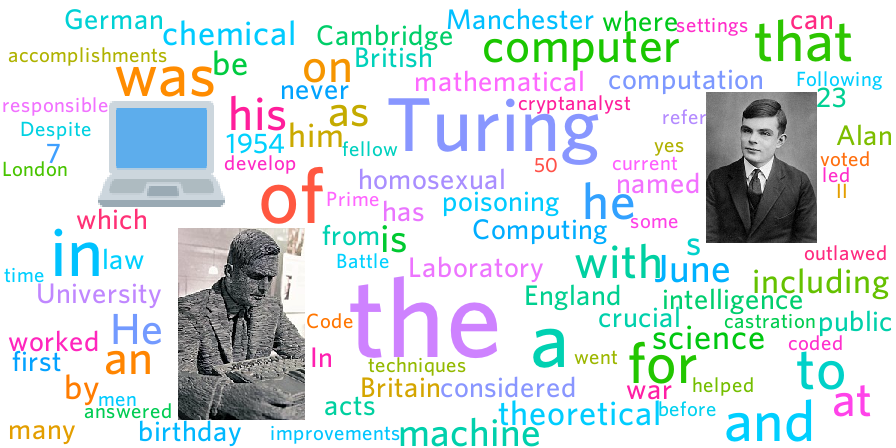
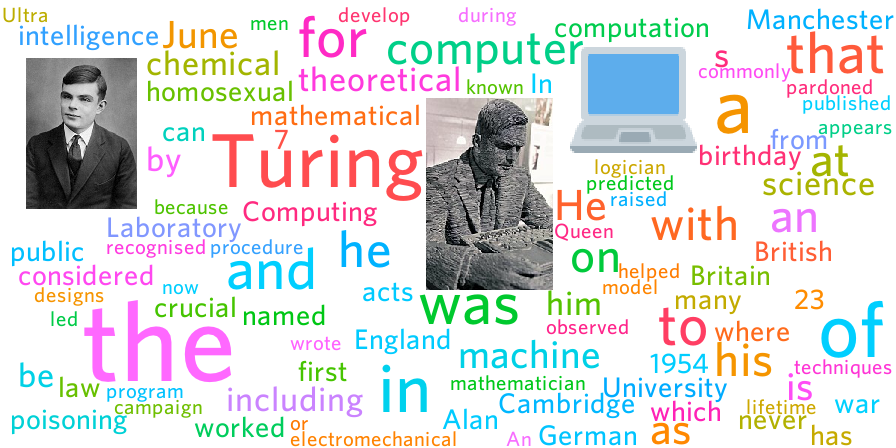
made the wordcloud gen several times faster by simply sampling less positions (doesn't seem to worsen the results) + added a benchmark

diff --git a/benches/wordcloud.rs b/benches/wordcloud.rs
@@ -1,14 +1,9 @@
-# wordcloud-rs
-A Rust library to generate word-clouds from text and images!
+use std::{collections::HashMap, fs};
 
-## Example 
-### Code
-```rust
-use std::collections::HashMap;
-use std::fs;
+use criterion::{black_box, criterion_group, criterion_main, Criterion};
+use wordcloud_rs::{Token, WordCloud};
 use lazy_static::lazy_static;
 use regex::Regex;
-use wordcloud_rs::*;
 
 lazy_static! {
     static ref RE_TOKEN: Regex = Regex::new(r"\w+").unwrap();
@@ -21,20 +16,26 @@ fn tokenize(text: String) -> Vec<(Token, f32)> {
     }
     counts.into_iter().map(|(k, v)| (Token::Text(k), v as f32)).collect()
 }
-
-fn main() {
-    // Prepare the tokens
+fn bench_wordcloud(c: &mut Criterion) {
     let text = fs::read_to_string("assets/sample_text.txt").unwrap();
     let mut tokens = tokenize(text);
     tokens.push((Token::from("assets/alan_turing.jpg"), 15.));
     tokens.push((Token::from("assets/turing_statue_bletchley.jpg"), 20.));
     tokens.push((Token::Text("💻".to_string()), 20.));
-    // Generate the word-cloud
-    let wc = WordCloud::new().generate(tokens);
-    // Save it
-    wc.save("sample_cloud.png").unwrap();
+    // sort the token by importance
+    tokens.sort_by(|(_, s1), (_, s2)| s2.partial_cmp(s1).unwrap());
+    // only keep the top 100
+    tokens.truncate(100);
+    // "squish" importance values
+    tokens.iter_mut().for_each(|(_, v)| *v = v.sqrt());    
+    let wc = WordCloud::new();
+    c.bench_function(&format!("wordcloud {}x{}", wc.width(), wc.height()), |b| b.iter(|| {
+        WordCloud::new().generate(black_box(tokens.clone()));
+    }));
 }
-```
-### Output
-![word_cloud_demo](https://github.com/Inspirateur/wordcloud-rs/raw/main/sample_cloud.png)
-*Generated in about ~80 ms*
+
+criterion_group!(
+    wordcloud, 
+    bench_wordcloud, 
+);
+criterion_main!(wordcloud);

diff --git a/src/collision_map.rs b/src/collision_map.rs
@@ -15,8 +15,8 @@ impl CollisionMap {
     pub fn new(width: usize, height: usize) -> Self {
         let bitmap = BinaryRaster::new(width, height);
         let mut spots = Vec::from_iter(iproduct!(
-            (2..(width-40)).step_by(2), 
-            (2..(height-20)).step_by(2)
+            (2..(width-40)).step_by(8), 
+            (2..(height-20)).step_by(8)
         ));
         spots.shuffle(&mut thread_rng());
         Self {

diff --git a/src/builder.rs b/src/builder.rs
@@ -102,4 +102,12 @@ impl Builder {
     pub fn generate(&mut self, tokens: Vec<(Token, f32)>) -> RgbaImage {
         wordcloud(&self.font, self.dim, tokens, &mut self.colors)
     }
+
+    pub fn width(&self) -> usize {
+        self.dim.0
+    }
+
+    pub fn height(&self) -> usize {
+        self.dim.1
+    }
 }
